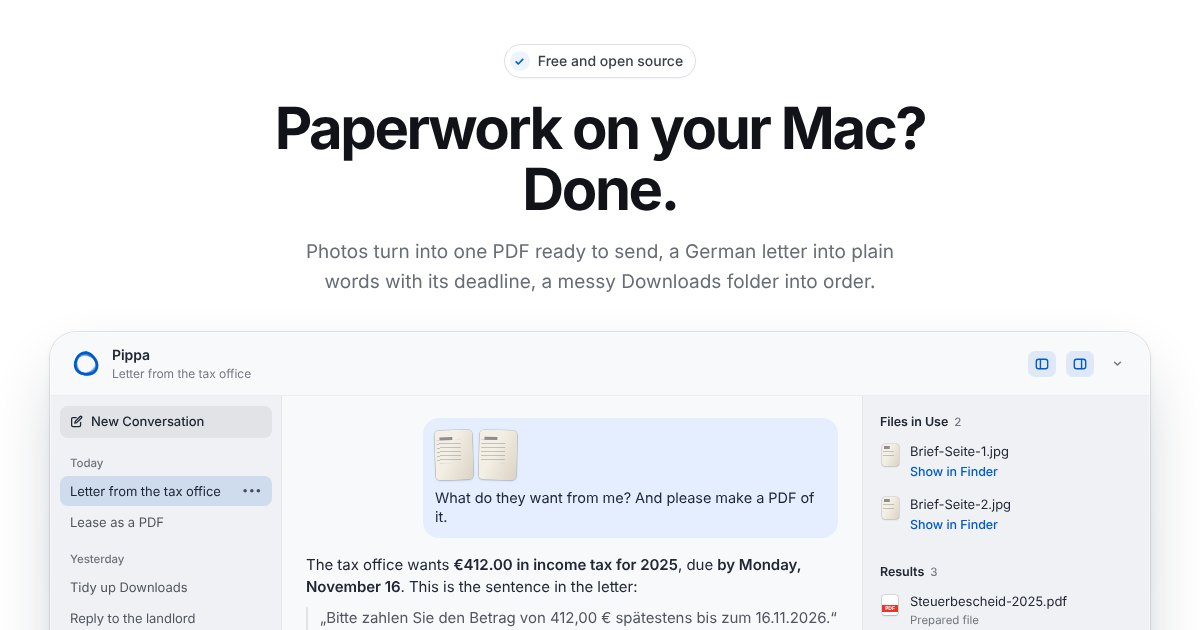
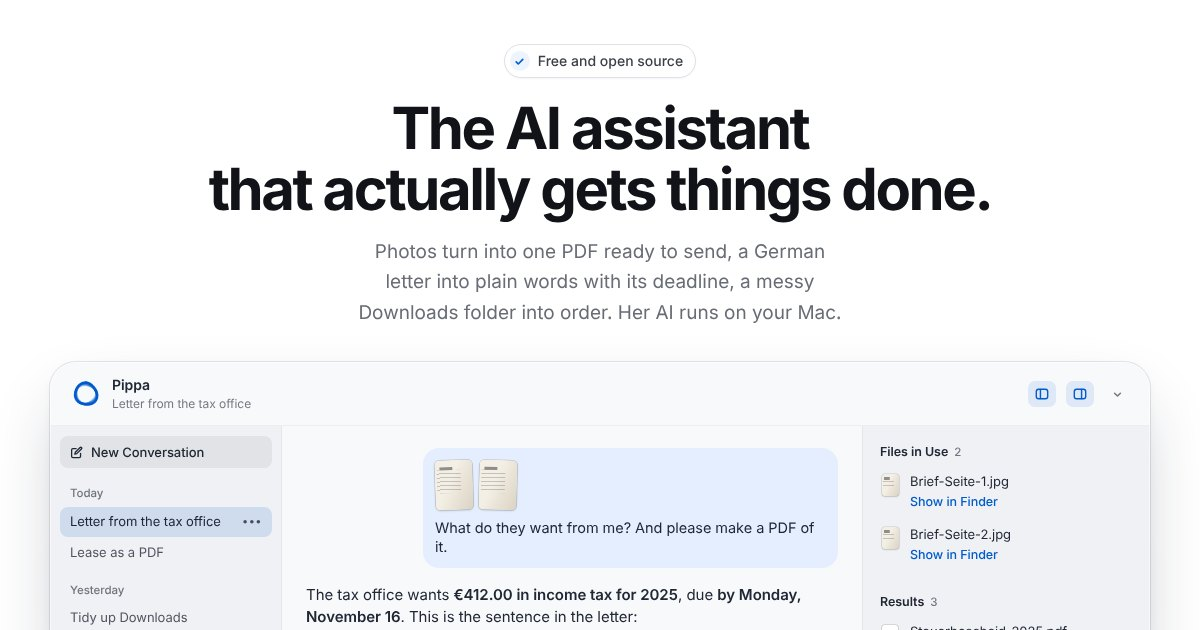
Lead with "The AI assistant that actually gets things done."
The owner chose an AI-assistant headline over "Paperwork on your Mac?
Done." for the website (DE: "Die KI-Assistentin, die wirklich was
erledigt.") and the README. The subhead now ends with where her AI runs;
titles, social previews and og images follow.

Claude-Session: https://claude.ai/code/session_01MkAvZLGobos73KMqsuvSN7

diff --git a/site/en/index.html b/site/en/index.html
@@ -7,25 +7,25 @@
 <meta name="referrer" content="no-referrer">
 <meta http-equiv="Content-Security-Policy" content="default-src 'self'; script-src 'self' 'unsafe-inline'; style-src 'self' 'unsafe-inline'; img-src 'self' data: https://heypippa.goatcounter.com; font-src 'self'; connect-src 'none'; object-src 'none'; base-uri 'self'; form-action 'none'">
 <meta name="robots" content="index, follow, max-image-preview:large">
-<title>Pippa: free Mac helper for paperwork, with local AI</title>
+<title>Pippa: the free AI assistant for Mac that actually gets things done</title>
 <meta name="description" content="Photos turn into one PDF ready to send, a German letter into plain words with its deadline, a messy Downloads folder into order. Pippa’s built-in AI runs on your Mac.">
 <meta property="og:type" content="website">
 <meta property="og:locale" content="en_US">
 <meta property="og:locale:alternate" content="de_DE">
 <meta property="og:site_name" content="Pippa">
-<meta property="og:title" content="Pippa: free Mac helper for paperwork, with local AI">
+<meta property="og:title" content="Pippa: the free AI assistant for Mac that actually gets things done">
 <meta property="og:description" content="Photos turn into one PDF ready to send, a German letter into plain words with its deadline, a messy Downloads folder into order. Pippa’s built-in AI runs on your Mac.">
 <meta property="og:image" content="https://heypippa.app/og-en.jpg?v=5">
-<meta property="og:image:alt" content="“Paperwork on your Mac? Done.” Below it, Pippa’s window: a photographed letter from the German tax office is explained, with the amount, the deadline and the sentence that states it.">
+<meta property="og:image:alt" content="“The AI assistant that actually gets things done.” Below it, Pippa’s window: a photographed letter from the German tax office is explained, with the amount, the deadline and the sentence that states it.">
 <meta property="og:image:secure_url" content="https://heypippa.app/og-en.jpg?v=5">
 <meta property="og:image:type" content="image/jpeg">
 <meta property="og:image:width" content="1200">
 <meta property="og:image:height" content="630">
 <meta name="twitter:card" content="summary_large_image">
-<meta name="twitter:title" content="Pippa: free Mac helper for paperwork, with local AI">
+<meta name="twitter:title" content="Pippa: the free AI assistant for Mac that actually gets things done">
 <meta name="twitter:description" content="Photos turn into one PDF ready to send, a German letter into plain words with its deadline, a messy Downloads folder into order. Pippa’s built-in AI runs on your Mac.">
 <meta name="twitter:image" content="https://heypippa.app/og-en.jpg?v=5">
-<meta name="twitter:image:alt" content="“Paperwork on your Mac? Done.” Below it, Pippa’s window: a photographed letter from the German tax office is explained, with the amount, the deadline and the sentence that states it.">
+<meta name="twitter:image:alt" content="“The AI assistant that actually gets things done.” Below it, Pippa’s window: a photographed letter from the German tax office is explained, with the amount, the deadline and the sentence that states it.">
 <link rel="icon" href="../favicon.ico" sizes="48x48">
 <link rel="icon" type="image/svg+xml" href="../favicon.svg">
 <link rel="apple-touch-icon" href="../apple-touch-icon.png">
@@ -53,7 +53,7 @@
       "@type": "WebPage",
       "@id": "https://heypippa.app/en/#page",
       "url": "https://heypippa.app/en/",
-      "name": "Pippa: free Mac helper for paperwork, with local AI",
+      "name": "Pippa: the free AI assistant for Mac that actually gets things done",
       "description": "Photos turn into one PDF ready to send, a German letter into plain words with its deadline, a messy Downloads folder into order. Pippa’s built-in AI runs on your Mac.",
       "inLanguage": "en",
       "isPartOf": {
@@ -500,8 +500,8 @@ strong, b { font-weight: 600; }
 <section class="hero" id="top" aria-labelledby="h1">
   <div class="wrap">
     <p class="badge"><i aria-hidden="true"><svg class="ic"><use href="#s-check"/></svg></i>Free and open source</p>
-    <h1 id="h1"><span>Paperwork on your Mac?</span> <span>Done.</span></h1>
-    <p class="lede">Photos turn into one PDF ready to send, a German letter into plain words with its deadline, a messy Downloads folder into order.</p>
+    <h1 id="h1"><span>The AI assistant</span> <span>that actually gets things done.</span></h1>
+    <p class="lede">Photos turn into one PDF ready to send, a German letter into plain words with its deadline, a messy Downloads folder into order. Her AI runs on your Mac.</p>
     <div class="act">
       <a class="btn dl" id="heroDl" href="https://github.com/tschnorpfeil/pippa/releases/latest/download/Pippa.dmg">Download free for Mac<svg class="ic" aria-hidden="true"><use href="#s-dl"/></svg></a>
       <a class="link2" href="#passt">Will it run on my Mac?<svg class="ic" aria-hidden="true"><use href="#s-chev"/></svg></a>

diff --git a/site/index.html b/site/index.html
@@ -7,25 +7,25 @@
 <meta name="referrer" content="no-referrer">
 <meta http-equiv="Content-Security-Policy" content="default-src 'self'; script-src 'self' 'unsafe-inline'; style-src 'self' 'unsafe-inline'; img-src 'self' data: https://heypippa.goatcounter.com; font-src 'self'; connect-src 'none'; object-src 'none'; base-uri 'self'; form-action 'none'">
 <meta name="robots" content="index, follow, max-image-preview:large">
-<title>Pippa: kostenlose KI-Helferin für Papierkram am Mac</title>
+<title>Pippa: kostenlose KI-Assistentin für den Mac, die wirklich was erledigt</title>
 <meta name="description" content="Aus Fotos wird ein versandfertiges PDF, aus Amtsdeutsch Klartext samt Frist, aus Download-Chaos Ordnung. Pippas KI läuft auf deinem Mac.">
 <meta property="og:type" content="website">
 <meta property="og:locale" content="de_DE">
 <meta property="og:locale:alternate" content="en_US">
 <meta property="og:site_name" content="Pippa">
-<meta property="og:title" content="Pippa: kostenlose KI-Helferin für Papierkram am Mac">
+<meta property="og:title" content="Pippa: kostenlose KI-Assistentin für den Mac, die wirklich was erledigt">
 <meta property="og:description" content="Aus Fotos wird ein versandfertiges PDF, aus Amtsdeutsch Klartext samt Frist, aus Download-Chaos Ordnung. Pippas KI läuft auf deinem Mac.">
 <meta property="og:image" content="https://heypippa.app/og.jpg?v=5">
-<meta property="og:image:alt" content="„Papierkram am Mac? Erledigt.“ Darunter Pippas Fenster: Ein fotografierter Brief vom Finanzamt ist erklärt, mit Betrag, Frist und dem Satz, in dem sie steht.">
+<meta property="og:image:alt" content="„Die KI-Assistentin, die wirklich was erledigt.“ Darunter Pippas Fenster: Ein fotografierter Brief vom Finanzamt ist erklärt, mit Betrag, Frist und dem Satz, in dem sie steht.">
 <meta property="og:image:secure_url" content="https://heypippa.app/og.jpg?v=5">
 <meta property="og:image:type" content="image/jpeg">
 <meta property="og:image:width" content="1200">
 <meta property="og:image:height" content="630">
 <meta name="twitter:card" content="summary_large_image">
-<meta name="twitter:title" content="Pippa: kostenlose KI-Helferin für Papierkram am Mac">
+<meta name="twitter:title" content="Pippa: kostenlose KI-Assistentin für den Mac, die wirklich was erledigt">
 <meta name="twitter:description" content="Aus Fotos wird ein versandfertiges PDF, aus Amtsdeutsch Klartext samt Frist, aus Download-Chaos Ordnung. Pippas KI läuft auf deinem Mac.">
 <meta name="twitter:image" content="https://heypippa.app/og.jpg?v=5">
-<meta name="twitter:image:alt" content="„Papierkram am Mac? Erledigt.“ Darunter Pippas Fenster: Ein fotografierter Brief vom Finanzamt ist erklärt, mit Betrag, Frist und dem Satz, in dem sie steht.">
+<meta name="twitter:image:alt" content="„Die KI-Assistentin, die wirklich was erledigt.“ Darunter Pippas Fenster: Ein fotografierter Brief vom Finanzamt ist erklärt, mit Betrag, Frist und dem Satz, in dem sie steht.">
 <link rel="icon" href="favicon.ico" sizes="48x48">
 <link rel="icon" type="image/svg+xml" href="favicon.svg">
 <link rel="apple-touch-icon" href="apple-touch-icon.png">
@@ -53,7 +53,7 @@
       "@type": "WebPage",
       "@id": "https://heypippa.app/#page",
       "url": "https://heypippa.app/",
-      "name": "Pippa: kostenlose KI-Helferin für Papierkram am Mac",
+      "name": "Pippa: kostenlose KI-Assistentin für den Mac, die wirklich was erledigt",
       "description": "Aus Fotos wird ein versandfertiges PDF, aus Amtsdeutsch Klartext samt Frist, aus Download-Chaos Ordnung. Pippas KI läuft auf deinem Mac.",
       "inLanguage": "de",
       "isPartOf": {
@@ -500,8 +500,8 @@ strong, b { font-weight: 600; }
 <section class="hero" id="top" aria-labelledby="h1">
   <div class="wrap">
     <p class="badge"><i aria-hidden="true"><svg class="ic"><use href="#s-check"/></svg></i>Kostenlos und quelloffen</p>
-    <h1 id="h1"><span>Papierkram am Mac?</span> <span>Erledigt.</span></h1>
-    <p class="lede">Aus Fotos wird ein versandfertiges PDF, aus Amtsdeutsch Klartext samt Frist, aus Download-Chaos Ordnung.</p>
+    <h1 id="h1"><span>Die KI-Assistentin,</span> <span>die wirklich was erledigt.</span></h1>
+    <p class="lede">Aus Fotos wird ein versandfertiges PDF, aus Amtsdeutsch Klartext samt Frist, aus Download-Chaos Ordnung. Pippas KI läuft auf deinem Mac.</p>
     <div class="act">
       <a class="btn dl" id="heroDl" href="https://github.com/tschnorpfeil/pippa/releases/latest/download/Pippa.dmg">Kostenlos für Mac laden<svg class="ic" aria-hidden="true"><use href="#s-dl"/></svg></a>
       <a class="link2" href="#passt">Passt mein Mac?<svg class="ic" aria-hidden="true"><use href="#s-chev"/></svg></a>

diff --git a/docs/positioning.md b/docs/positioning.md
@@ -2,7 +2,7 @@
 
 Decision record · 28 October 2026 · Applies to the README, heypippa.app, release notes and launch posts
 
-**Promise: "Paperwork on your Mac? Done." / „Papierkram am Mac? Erledigt."** Pippa is the free Mac helper that turns
+**Headline: "The AI assistant that actually gets things done." / „Die KI-Assistentin, die wirklich was erledigt."** (chosen 29 October 2026, replacing "Paperwork on your Mac? Done."; the promise below is unchanged) Pippa is the free Mac helper that turns
 paperwork into a finished result: photos become one PDF ready to send, a German letter is explained with what it wants,
 by when and the sentence that says so, Downloads get a tidy folder, a reply waits as a draft in Mail. The PDF jobs work
 before any AI download, and her built-in AI runs on the Mac with no account.
@@ -40,8 +40,8 @@ The site's banned-phrase list in `scripts/check-site.cjs` stays the source of tr
 | | English | German |
 |---|---|---|
 | Eyebrow | Your free helper for the Mac | Deine kostenlose Helferin für den Mac |
-| H1 | Paperwork on your Mac? Done. | Papierkram am Mac? Erledigt. |
-| Subhead | Photos turn into one PDF ready to send, a German letter into plain words with its deadline, a messy Downloads folder into order. Her built-in AI runs on your Mac. | Aus Fotos wird ein versandfertiges PDF, aus Amtsdeutsch Klartext samt Frist, aus Download-Chaos Ordnung. Pippas KI läuft auf deinem Mac. |
+| H1 | The AI assistant that actually gets things done. | Die KI-Assistentin, die wirklich was erledigt. |
+| Subhead | Photos turn into one PDF ready to send, a German letter into plain words with its deadline, a messy Downloads folder into order. Her AI runs on your Mac. | Aus Fotos wird ein versandfertiges PDF, aus Amtsdeutsch Klartext samt Frist, aus Download-Chaos Ordnung. Pippas KI läuft auf deinem Mac. |
 | First use | Give Pippa a few photos: the PDF is ready before you download any AI. | Gib Pippa ein paar Fotos: Das PDF steht, bevor du überhaupt eine KI lädst. |
 | Product Hunt | Paperwork on your Mac? Drop it on Pippa. Done. | |
 | GitHub description | Free Mac helper with local AI: photos to one PDF, German letters explained, tidy folders, Mail drafts. MIT, no account | |

diff --git a/README.md b/README.md
@@ -1,7 +1,7 @@
 <p align="center"><img src="site/icon-512.png" width="112" height="112" alt="Pippa's app icon: three wobbly blue rings on a light tile"></p>
 <h1 align="center">Pippa</h1>
-<p align="center"><b>Paperwork on your Mac? Done.</b><br>
-The free Mac helper for people who'd rather not learn AI. Her built-in AI runs on your Mac.</p>
+<p align="center"><b>The AI assistant that actually gets things done.</b><br>
+Free for the Mac: photos to one PDF, letters explained, folders tidied. Her AI runs on your Mac.</p>
 
 <p align="center">
   <img src="https://img.shields.io/badge/macOS-15%2B-000000?logo=apple&logoColor=white" alt="macOS 15 or later">
